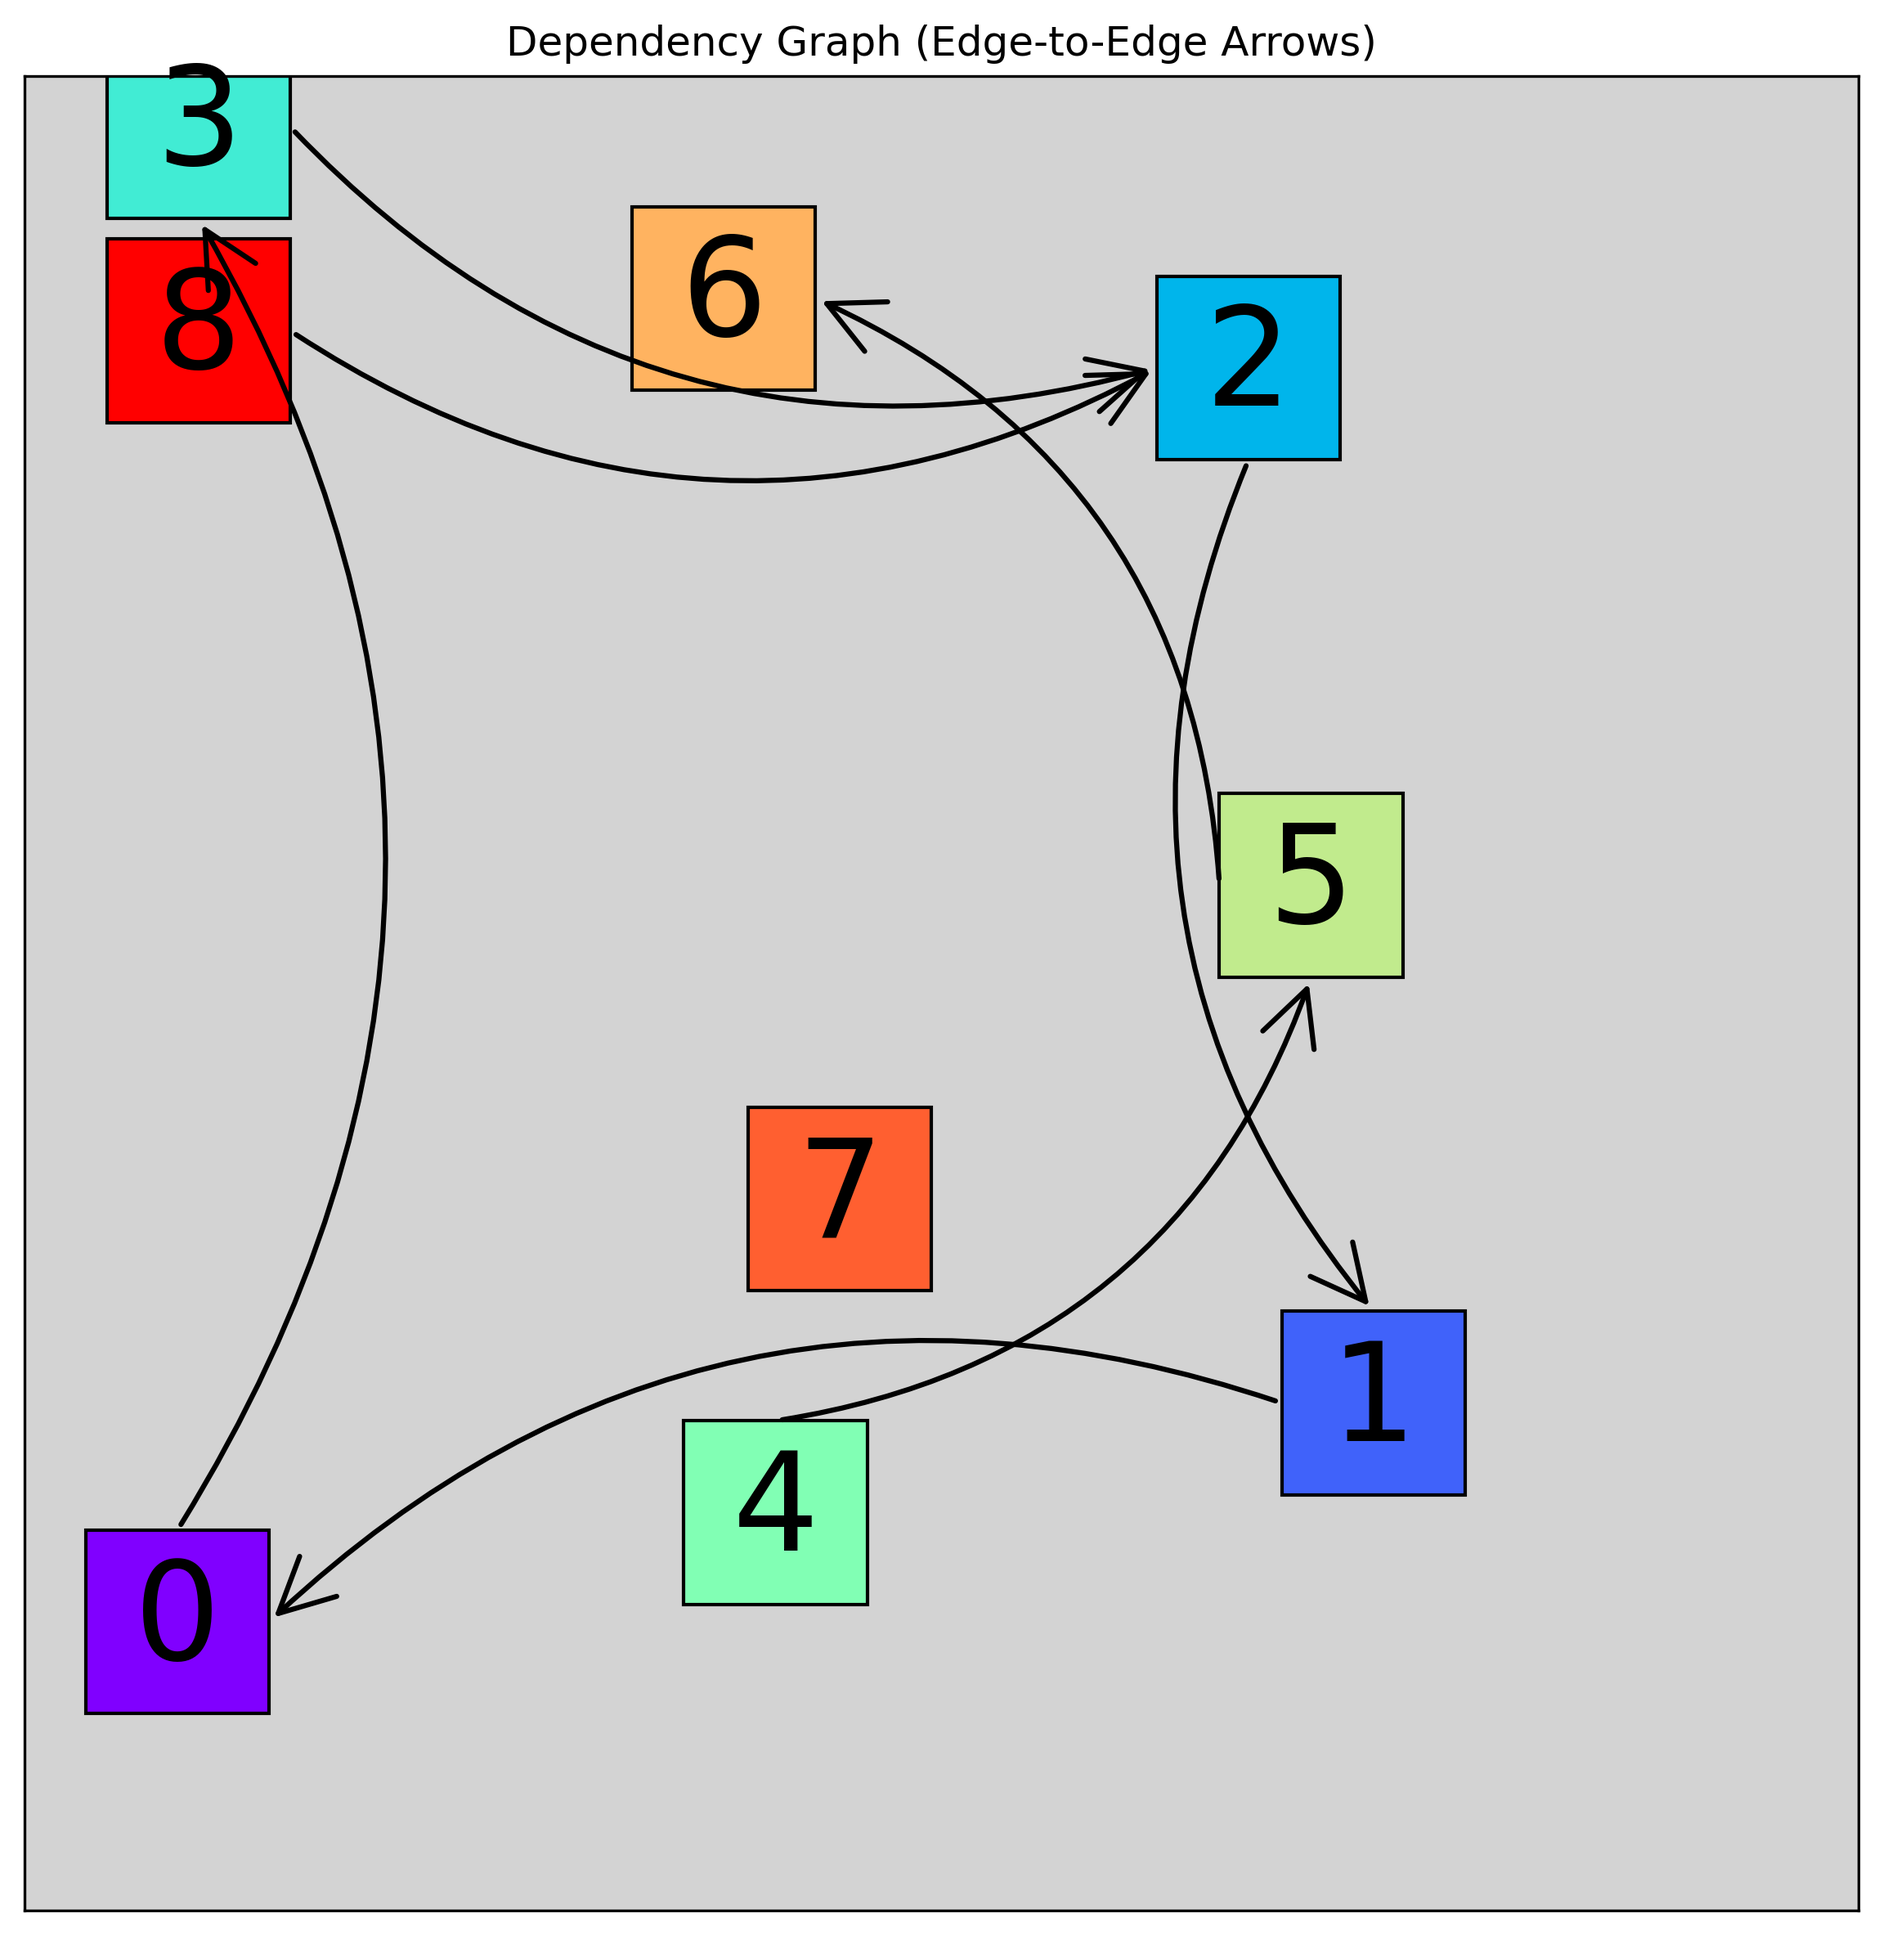
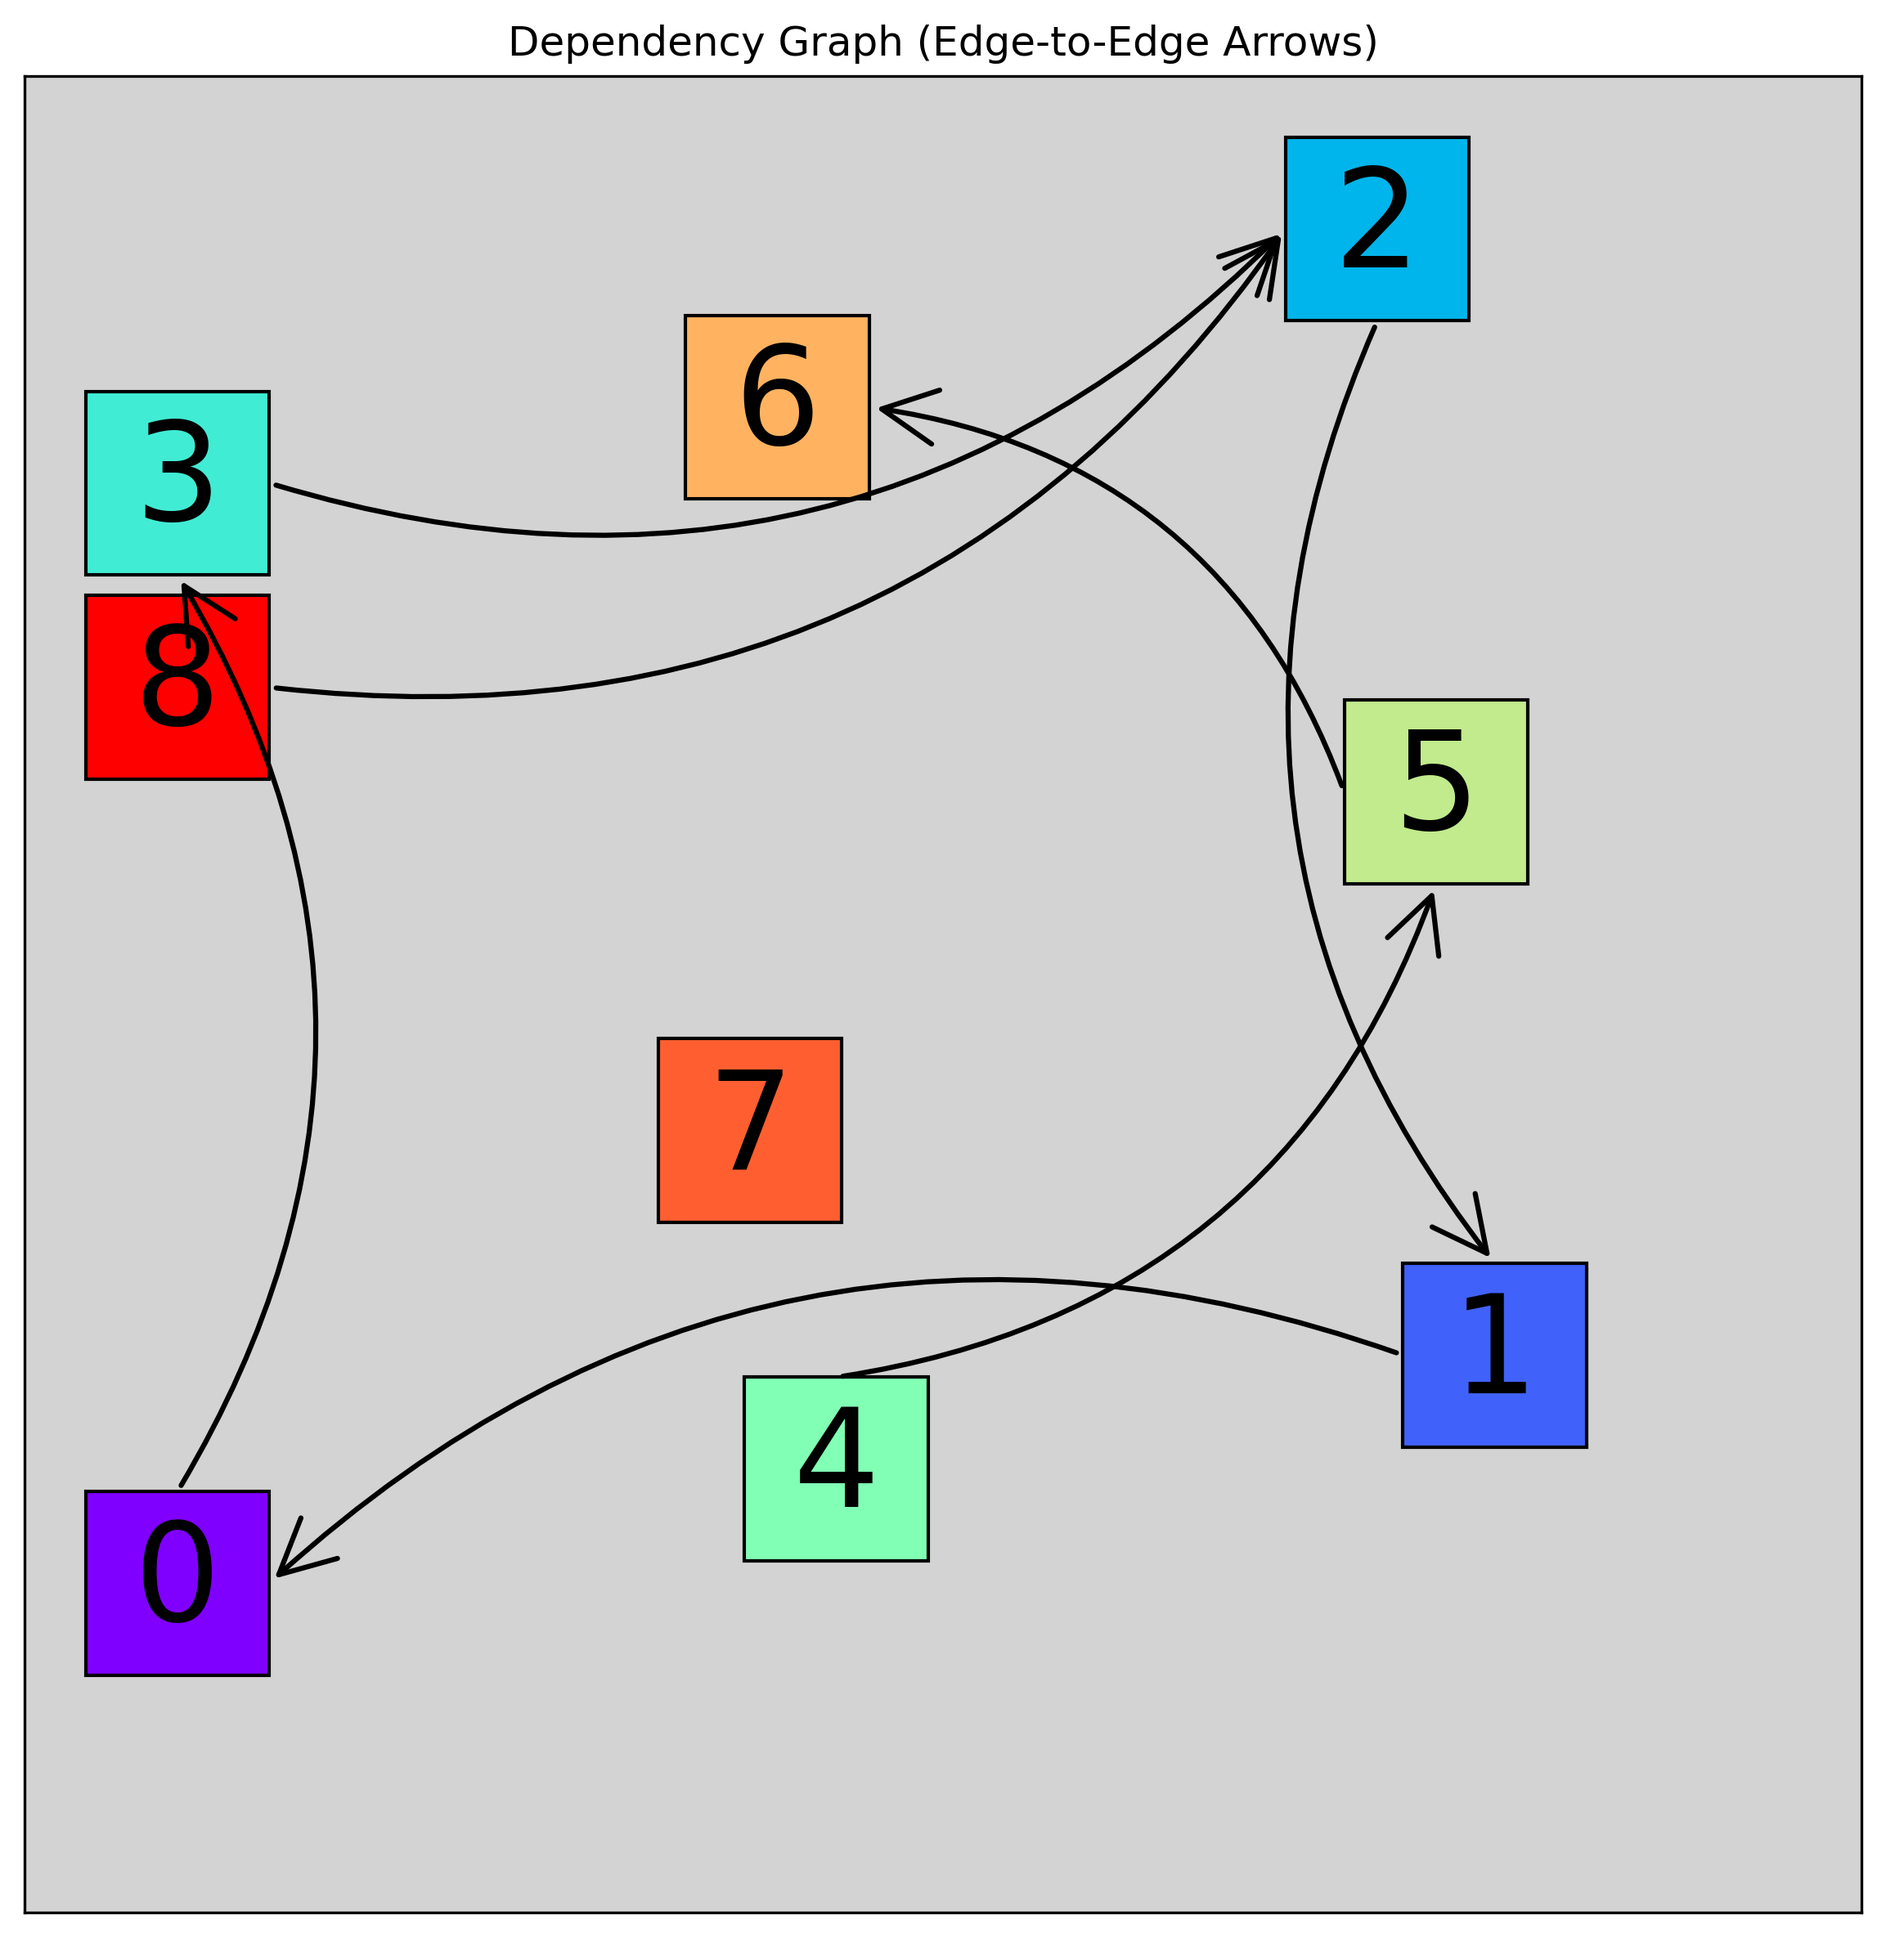
ppt finished

diff --git a/task.py b/task.py
@@ -665,13 +665,26 @@ class Task:
                         dy = center_y - Inches(scale * dst_edge[1])
                         print(f"sx: {sx}, sy: {sy}, dx: {dx}, dy: {dy}")
 
+                        if sx == dx and sy == dy:
+                            print("❌ Skipping degenerate connector")
+                            return
+
+                        if sx < 0 or sy < 0 or dx < 0 or dy < 0:
+                            print("❌ Skipping connector with negative coords")
+                            return
+ 
+
                         connector = slide.shapes.add_connector(MSO_CONNECTOR.STRAIGHT, sx, sy, dx, dy)
                         connector.line.color.rgb = RGBColor(0, 0, 0)
                         connector.line.width = Pt(2)
                         connector.line.end_arrowhead = True
                         line_elem = connector.line._get_or_add_ln()
+                        # line_elem.append(parse_xml("""
+                        #         <a:headEnd type="arrow" xmlns:a="http://schemas.openxmlformats.org/drawingml/2006/main"/>
+                        # """))
                         line_elem.append(parse_xml("""
-                                <a:headEnd type="arrow" xmlns:a="http://schemas.openxmlformats.org/drawingml/2006/main"/>
+                            <a:tailEnd type="arrow" w="lg" len="lg"
+                            xmlns:a="http://schemas.openxmlformats.org/drawingml/2023/main"/>
                         """))
 
 

diff --git a/test_pptx.py b/test_pptx.py
@@ -1,6 +1,6 @@
 from pptx import Presentation
 from pptx.util import Inches, Pt
-from pptx.enum.shapes import MSO_CONNECTOR
+from pptx.enum.shapes import MSO_CONNECTOR, MSO_SHAPE
 from pptx.dml.color import RGBColor
 from pptx.oxml import parse_xml
 
@@ -11,7 +11,7 @@ start_x = Inches(2.5)
 start_y = Inches(2)
 end_x = Inches(4)
 end_y = Inches(4)
-
+shape = slide.shapes.add_shape(MSO_SHAPE.RECTANGLE, Inches(1), Inches(1), Inches(2), Inches(2))
 print(f"start_x: {start_x}, start_y: {start_y}, end_x: {end_x}, end_y: {end_y}")
 connector = slide.shapes.add_connector(
     MSO_CONNECTOR.STRAIGHT,
